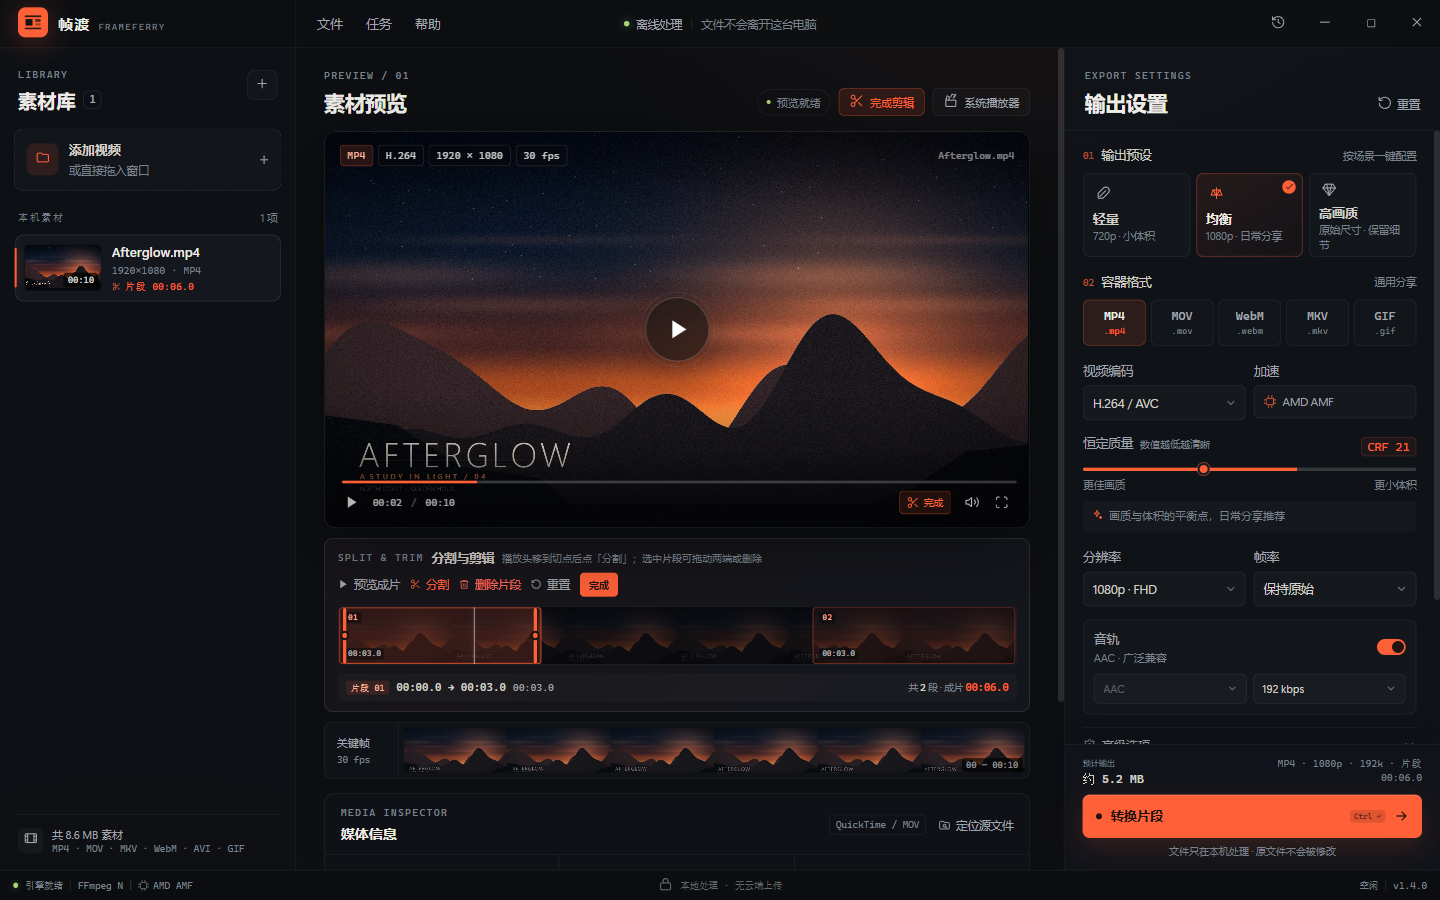
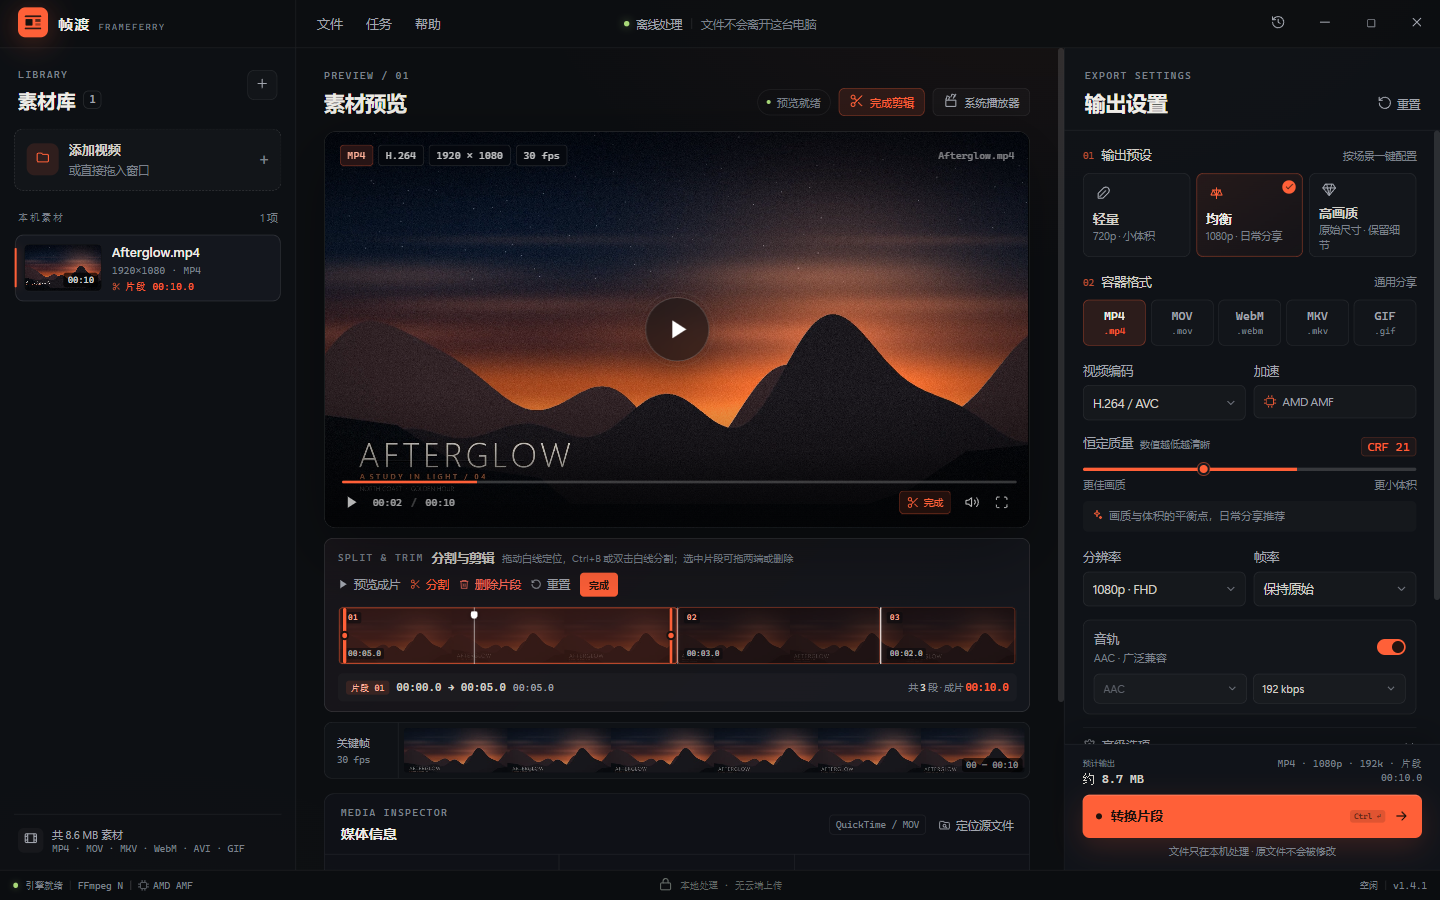
feat: 白线直接作为分割线
时间轴白线可拖动定位，支持 Ctrl+B、双击白线或按钮在当前位置分割；相邻片段显示白色切点线，交互参考剪映。版本提升到 v1.4.1，更新截图与说明。

Changed region(s): [[0.3438, 0.6533, 0.5, 0.7467], [0.3438, 0.5911, 0.5625, 0.6222], [0.5625, 0.7156, 0.5938, 0.7467]]

diff --git a/renderer/app.js b/renderer/app.js
@@ -620,13 +620,21 @@ function renderTrimUI() {
       ${isSelected ? `<button class="clip-handle clip-handle-end" data-clip-handle="end" aria-label="调整片段出点"><span></span></button>` : ''}
     </div>`
   }).join('')
+  const cutLines = clips
+    .map((clip, index) => {
+      if (index === 0) return ''
+      const previous = clips[index - 1]
+      if (Math.abs(previous.end - clip.start) > 0.01) return ''
+      return `<span class="clip-cut-line" style="left:${pct(clip.start)}%"></span>`
+    })
+    .join('')
 
   slot.innerHTML = `<div class="trim-panel clip-editor">
     <div class="trim-head">
       <div class="trim-head-copy">
         <span class="eyebrow">SPLIT & TRIM</span>
         <span class="trim-head-title">分割与剪辑</span>
-        <span class="trim-head-hint">播放头移到切点后点「分割」；选中片段可拖动两端或删除</span>
+        <span class="trim-head-hint">拖动白线定位，Ctrl+B 或双击白线分割；选中片段可拖两端或删除</span>
       </div>
       <div class="trim-toolbar">
         <button class="text-button" data-clip-action="preview">${icon('play', 11)} 预览成片</button>
@@ -640,7 +648,10 @@ function renderTrimUI() {
       ${info.filmstrip ? `<img class="trim-film" src="${info.filmstrip}" alt="">` : '<div class="trim-film trim-film-empty"></div>'}
       <div class="clip-dim"></div>
       ${blocks}
-      <div class="trim-playhead" id="trim-playhead"></div>
+      ${cutLines}
+      <div class="trim-playhead" id="trim-playhead">
+        <button class="playhead-grip" id="playhead-grip" title="拖动白线定位；双击白线或 Ctrl+B 分割"></button>
+      </div>
     </div>
     <div class="clip-readout">
       <div class="clip-selected-line">
@@ -1380,6 +1391,7 @@ function historyModalHtml() {
 function shortcutsModalHtml() {
   const rows = [
     ['添加视频', ['Ctrl', 'O']], ['开始转换', ['Ctrl', 'Enter']], ['播放 / 暂停预览', ['Space']],
+    ['在播放头处分割片段', ['Ctrl', 'B']], ['拖动白线定位', ['鼠标拖动']], ['双击白线分割', ['双击']],
     ['关闭菜单或弹窗', ['Esc']], ['最小化窗口', ['Alt', 'Space']]
   ]
   return `<div class="modal-backdrop"><div class="modal" style="width:520px" role="dialog" aria-modal="true">
@@ -1498,7 +1510,61 @@ function bindEvents() {
     handleClipAction(button.dataset.clipAction)
   })
 
+  let lastTimelineClick = { at: 0, x: 0, y: 0 }
   $('#preview-body').addEventListener('pointerdown', (event) => {
+    const timelineElement = event.target.closest('#clip-timeline')
+    if (timelineElement && !event.target.closest('.clip-handle, .playhead-grip')) {
+      const now = performance.now()
+      if (
+        now - lastTimelineClick.at < 360 &&
+        Math.hypot(event.clientX - lastTimelineClick.x, event.clientY - lastTimelineClick.y) < 8
+      ) {
+        lastTimelineClick = { at: 0, x: 0, y: 0 }
+        const file = activeFile()
+        const video = $('#preview-video')
+        if (file?.info && video) {
+          const rect = timelineElement.getBoundingClientRect()
+          const ratio = Math.min(1, Math.max(0, (event.clientX - rect.left) / rect.width))
+          const time = ratio * (Number(file.info.duration) || 0)
+          video.pause()
+          video.currentTime = time
+          ui.currentTime = time
+          paintTrimPlayhead()
+          handleClipAction('split')
+        }
+        return
+      }
+      lastTimelineClick = { at: now, x: event.clientX, y: event.clientY }
+    }
+
+    const grip = event.target.closest('.playhead-grip')
+    if (grip) {
+      const file = activeFile()
+      const timeline = $('#clip-timeline')
+      const video = $('#preview-video')
+      if (!file?.info || !timeline) return
+      const duration = Number(file.info.duration) || 0
+      event.preventDefault()
+      video?.pause()
+      const timeAt = (pointerEvent) => {
+        const rect = timeline.getBoundingClientRect()
+        const ratio = Math.min(1, Math.max(0, (pointerEvent.clientX - rect.left) / rect.width))
+        return ratio * duration
+      }
+      const move = (pointerEvent) => {
+        const time = timeAt(pointerEvent)
+        if (video) video.currentTime = time
+        ui.currentTime = time
+        paintTrimPlayhead()
+      }
+      const up = () => {
+        window.removeEventListener('pointermove', move)
+        window.removeEventListener('pointerup', up)
+      }
+      window.addEventListener('pointermove', move)
+      window.addEventListener('pointerup', up)
+      return
+    }
     const handle = event.target.closest('.clip-handle')
     if (!handle) return
     const file = activeFile()
@@ -1680,6 +1746,14 @@ function bindEvents() {
     }
     if ((event.ctrlKey || event.metaKey) && event.key === 'Enter') {
       event.preventDefault(); if (!state.modal) void startConversion(); return
+    }
+    if ((event.ctrlKey || event.metaKey) && event.key.toLowerCase() === 'b') {
+      if (state.modal) return
+      if (state.trimMode) {
+        event.preventDefault()
+        handleClipAction('split')
+      }
+      return
     }
     if (event.code === 'Space' && activeFile()?.status === 'ready') {
       const target = event.target

diff --git a/renderer/styles.css b/renderer/styles.css
@@ -4010,3 +4010,55 @@ input:focus-visible {
     gap: 5px;
   }
 }
+
+/* ---------- Jianying-style white playhead / split line ---------- */
+
+.clip-cut-line {
+  position: absolute;
+  z-index: 4;
+  top: 0;
+  bottom: 0;
+  width: 1px;
+  background: rgba(255, 255, 255, 0.78);
+  box-shadow: 0 0 5px rgba(255, 255, 255, 0.16);
+  pointer-events: none;
+}
+
+.trim-playhead {
+  pointer-events: none;
+}
+
+.playhead-grip {
+  position: absolute;
+  z-index: 7;
+  top: 0;
+  left: 50%;
+  width: 13px;
+  height: 14px;
+  transform: translateX(-50%);
+  padding: 0;
+  border: 0;
+  background: transparent;
+  cursor: ew-resize;
+  pointer-events: auto;
+  touch-action: none;
+}
+
+.playhead-grip::before {
+  content: "";
+  display: block;
+  width: 7px;
+  height: 7px;
+  margin: 2px auto 0;
+  border-radius: 2px 2px 50% 50%;
+  background: #fff;
+  box-shadow: 0 1px 5px rgba(0, 0, 0, 0.5);
+}
+
+.playhead-grip:hover::before {
+  width: 9px;
+  height: 9px;
+  margin-top: 1px;
+  background: #fff;
+  box-shadow: 0 0 0 2px rgba(255, 255, 255, 0.16), 0 1px 5px rgba(0, 0, 0, 0.5);
+}

diff --git a/README.md b/README.md
@@ -37,7 +37,7 @@ E:\FrameFerry\FrameFerry.exe
 
 - **素材库**：真实缩略图、时长与分辨率；单击切换，悬停移除；窗口任意位置拖入视频。
 - **工作台**：画面预览、自定义播放控制、关键帧胶片条、媒体检查器。
-- **分割与剪辑**：预览右上角或播放控制条右侧的剪刀「剪辑」按钮打开时间轴；把播放头移到切点后点「分割」，视频会被拆成多个片段。选中片段后可以拖动两端再次裁剪，或直接删除。转换按钮变为「转换片段」，FFmpeg 只导出保留的片段并按顺序拼接。
+- **分割与剪辑**：预览右上角或播放控制条右侧的剪刀「剪辑」按钮打开时间轴；白色竖线就是分割位置，拖动白线定位后按 `Ctrl+B`、双击白线或点「分割」，视频会被拆成多个片段，切点会留下白色分割线。选中片段后可以拖动两端再次裁剪，或直接删除。转换按钮变为「转换片段」，FFmpeg 只导出保留的片段并按顺序拼接。
 - **输出设置**：场景预设、容器/编码器联动、恒定质量、分辨率与帧率、音轨、高级选项。
 - **默认保存文件夹**：设置一次，后续新素材自动使用该目录；可随时更改或恢复「跟随源文件」。选择会写入本机 `settings.json`，重启后仍然有效。
 - **动作 Dock**：预计体积、主操作「开始转换」、当前/最近任务和进度常驻在视线内。
@@ -68,7 +68,7 @@ E:\FrameFerry\FrameFerry.exe
 
 ### 2. 分割与剪辑
 
-每个素材维护一组按时间排序的片段：初始为一条完整片段。播放头落在片段内部时点「分割」，会在当前时间把该片段拆成两条；选中任意片段后，可以拖动两端再次裁剪，或点「删除片段」移除。橙色块是保留片段，暗色区域是被删除的部分。
+每个素材维护一组按时间排序的片段：初始为一条完整片段。时间轴上的白色竖线是播放头，同时也是分割位置：可以拖动白线，或点击时间轴定位，再按 `Ctrl+B`、双击白线或点「分割」。切点会留下一条白色分割线，相邻片段在视觉上连续。选中任意片段后，可以拖动两端再次裁剪，或点「删除片段」移除。橙色块是保留片段，暗色区域是被删除的部分。
 
 渲染层把片段数组交给主进程。单片段的导出走简洁的 `-ss / -t` 路径；多片段则用 FFmpeg `filter_complex`：
 
@@ -149,6 +149,7 @@ npm start -- --open-file="E:\path\to\video.mp4"
 - MP4（H.264 + AAC，AMD AMF 硬件编码）、WebM（VP9 + Opus）、GIF（12.5fps / 80ms 固定帧间隔）、MOV ProRes 422 HQ + PCM 四种真实转换；
 - 输出路径、同名避让、历史记录、完成态与 toast 提示；
 - 默认保存文件夹的设置加载、自动落到该目录、重启持久化；
+- 白线分割：拖动白线定位，`Ctrl+B` / 双击白线 / 点「分割」均能在当前位置切开，切点显示白色分割线；
 - 分割与剪辑：在 3s、7s 分割并删除中间片段，保留 `0–3s`、`7–10s`，输出 6.000s；
 - 片段再裁剪：把首段出点拖到 2.5s，输出精确 5.500s；任务进度与预计体积同步变化；
 - GIF 多片段：输出 75 帧，每帧 80ms，拼接后节奏保持稳定；

diff --git a/docs/TEST_REPORT.md b/docs/TEST_REPORT.md
@@ -90,6 +90,7 @@
 
 ### 5.5 分割与剪辑
 
+- 白线交互：拖动白线到 5.0s，`Ctrl+B` 分割成功；双击白线 8.0s 处再次分割，得到 `0–5s / 5–8s / 8–10s`，渲染出两条白色分割线
 - 操作：10s 素材打开「剪辑」，播放头在 3.0s 点「分割」，再在 7.0s 点「分割」，得到三段 `0–3s / 3–7s / 7–10s`
 - 选中中间片段（片段 02），点「删除片段」，保留 `0–3s` 与 `7–10s`
 - 界面：两段橙色块、中间暗色区；成片长度 `00:06.0`，预计体积约 5.2 MB
@@ -116,6 +117,7 @@
 | 自定义扩展名 | `custom.mkv` 切到 WebM 后 UI 路径变为 `custom.webm` |
 | 片段剪辑 | 2.0s–6.0s 输出 4.000s，进度/预计体积按片段计算 |
 | 片段预览 | 播放到出点 6.0s 自动暂停 |
+| 白线分割 | 拖动白线 + Ctrl+B / 双击白线，拆成三段并绘制两条白色分割线 |
 | 分割与删除 MP4 | 在 3s、7s 分割后删除中间段，输出 6.000s，音画均保留 |
 | 分割片段再裁剪 | 把首段出点从 3.0s 拖到 2.5s，输出 5.500s |
 | 分割后 GIF | 保留 0–3s / 7–10s，输出 75 帧 / 6s / 全部 80ms |
